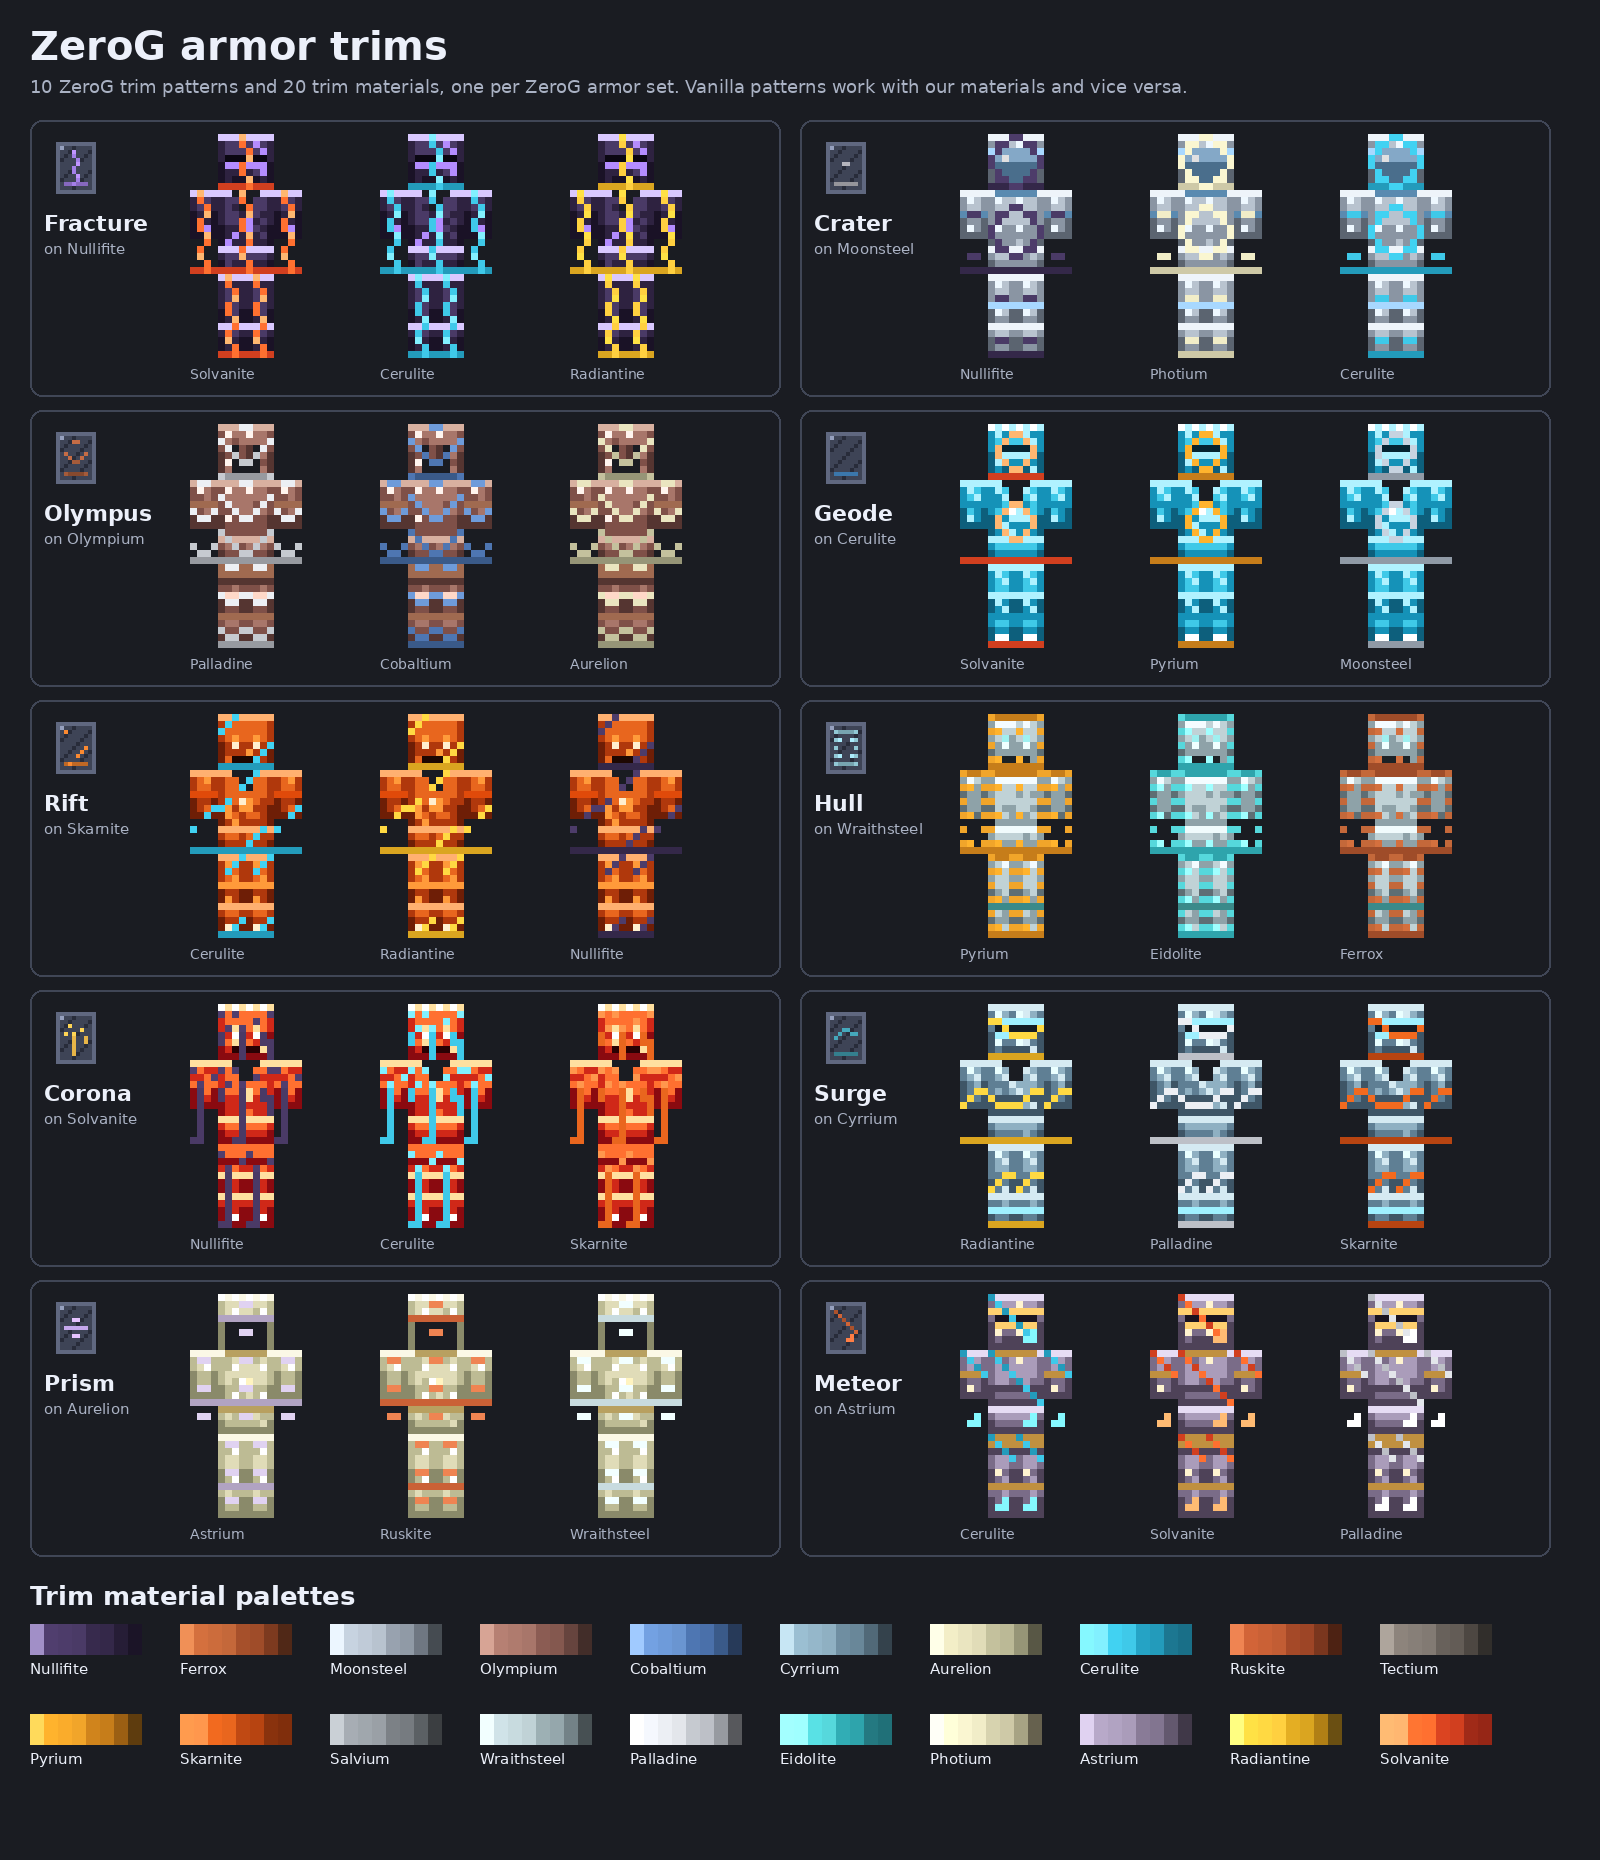
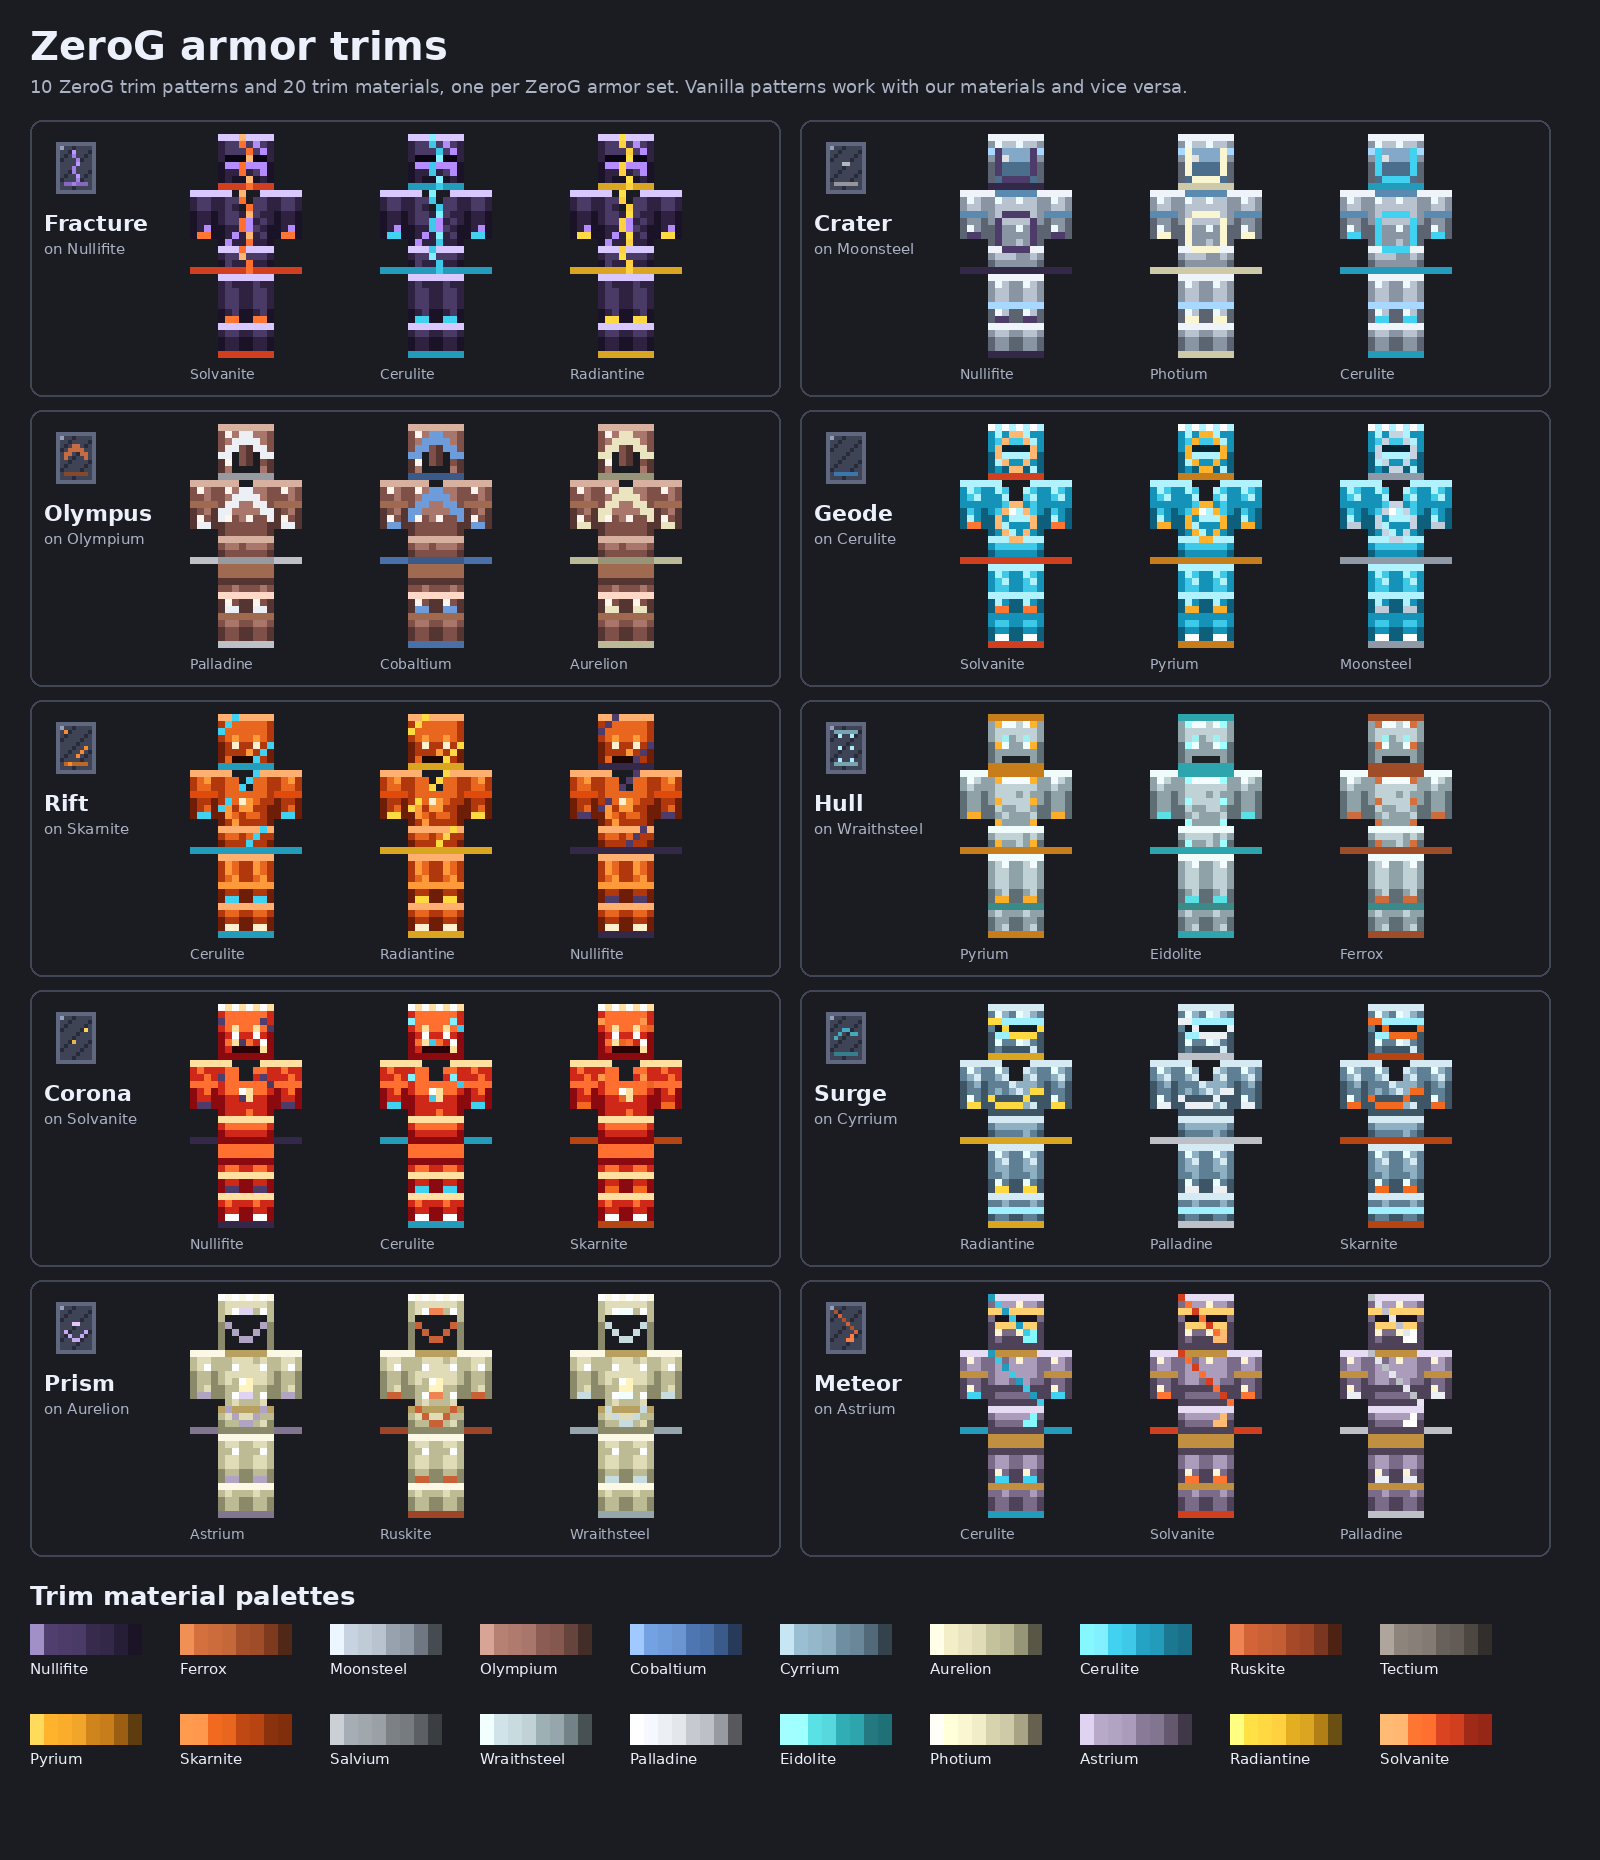
armor trims: lighter patterns (less crowded)
Full motif now only on the big front/back faces (head, torso); side faces and
the narrow arm/leg faces get a hem line and one accent; helmet top stays bare.
Busiest motifs thinned (Hull, Olympus, Corona, Prism, Crater). Coverage down
from up to 368 px to 80-156 px per armor layer, in line with vanilla trims.

Claude-Session: https://claude.ai/code/session_012XH8oT5TFW2tiVEGQE6GwA

diff --git a/docs/zero-g-tweaks-bundle/generators/trims.py b/docs/zero-g-tweaks-bundle/generators/trims.py
@@ -88,11 +88,11 @@ def motif(name, x, y, fw, fh, gx, gy):
         if edge: return 5
     elif name == 'crater':      # rings
         d = math.hypot(x - cx, y - cy)
-        if fw >= 8 and abs(d - 3.2) < 0.5: return 2
+        if fw >= 8 and abs(d - 2.6) < 0.45 and y > 1: return 2
         if fw < 8 and y % 6 == 3 and abs(x - cx) < 1: return 3
         if edge: return 5
     elif name == 'olympus':     # mountain chevrons
-        if (y + abs(x - cx) * 1.0) % 5 < 1: return 2 if y < fh / 2 else 4
+        if abs((y - 1) - abs(x - cx)) < .6 and y < fh * .6: return 2    # one chevron peak
         if edge: return 6
     elif name == 'geode':       # nested diamonds
         m = abs(x - cx) + abs(y - cy)
@@ -103,18 +103,17 @@ def motif(name, x, y, fw, fh, gx, gy):
         if (gx + gy) % 9 == 0 and y % 4 != 3: return 2
         if edge: return 5
     elif name == 'hull':        # hull ribs and rivets
-        if x in (0, fw - 1) and y % 2 == 0: return 3
         if y in (0, fh - 1): return 5
-        if x % 3 == 1 and y % 4 == 2: return 1
+        if x in (1, fw - 2) and y % 3 == 1: return 1           # two rivet columns
     elif name == 'corona':      # rays from the top centre
         ang = math.degrees(math.atan2(y + 1, x - cx))
-        if round(ang) % 30 < 8 and y > 0: return 1 if y < 4 else 3
+        if round(ang) % 45 < 6 and 0 < y < 6: return 1 if y < 3 else 3
     elif name == 'surge':       # waves
         if y == int(cy + 1.4 * math.sin((gx) / 1.6)): return 2
         if edge: return 5
     elif name == 'prism':       # stacked triangles
-        if (fh - 1 - y) % 4 == 0 and abs(x - cx) <= (fh - 1 - y) % 8: return 2
-        if (fh - 1 - y) % 4 == 2 and abs(x - cx) < 1: return 0
+        if fh - 1 - y < 4 and abs(x - cx) <= (fh - 1 - y) and abs(abs(x - cx) - (fh - 1 - y)) < .6: return 2
+        if fh - 1 - y == 5 and abs(x - cx) < 1: return 0
     elif name == 'meteor':      # a streak with a burning head
         t = x - y
         if t == 0 and y < fh - 2: return 3 if y % 2 else 5
@@ -135,14 +134,27 @@ PATTERNS = {  # id: (display, theme colour for the template icon, chest, duplica
 }
 
 def draw_layer(name, parts):
+    """Keep trims light, like vanilla: the full motif only on the big front/back faces (head, torso);
+    side faces and the narrow arm/leg faces just get a hem line and one accent, and the helmet top stays bare."""
     im = Image.new('RGBA', (64, 32), (0, 0, 0, 0)); p = im.load()
     for rects, rows in parts:
         for face, (fx, fy, fw, fh) in rects.items():
+            if face == 'top': continue
+            big = face in ('front', 'back') and fw >= 8
             for y in range(fh):
-                if rows and not (rows[0] <= fy + y <= rows[1]): continue
+                gy = fy + y
+                if rows and not (rows[0] <= gy <= rows[1]): continue
+                last = gy == (rows[1] if rows else fy + fh - 1)
                 for x in range(fw):
-                    k = motif(name, x, y, fw, fh, fx + x, fy + y)
-                    if k is not None: p[fx + x, fy + y] = KEY[k] + (255,)
+                    if big:
+                        k = motif(name, x, y, fw, fh, fx + x, gy)
+                    elif last:
+                        k = 5                                            # hem along the bottom edge
+                    elif face in ('front', 'back') and y == fh // 2 and x in (fw // 2 - 1, fw // 2):
+                        k = 2                                            # a single accent on arms and legs
+                    else:
+                        k = None
+                    if k is not None: p[fx + x, gy] = KEY[k] + (255,)
     return im
 
 for pid in PATTERNS:
